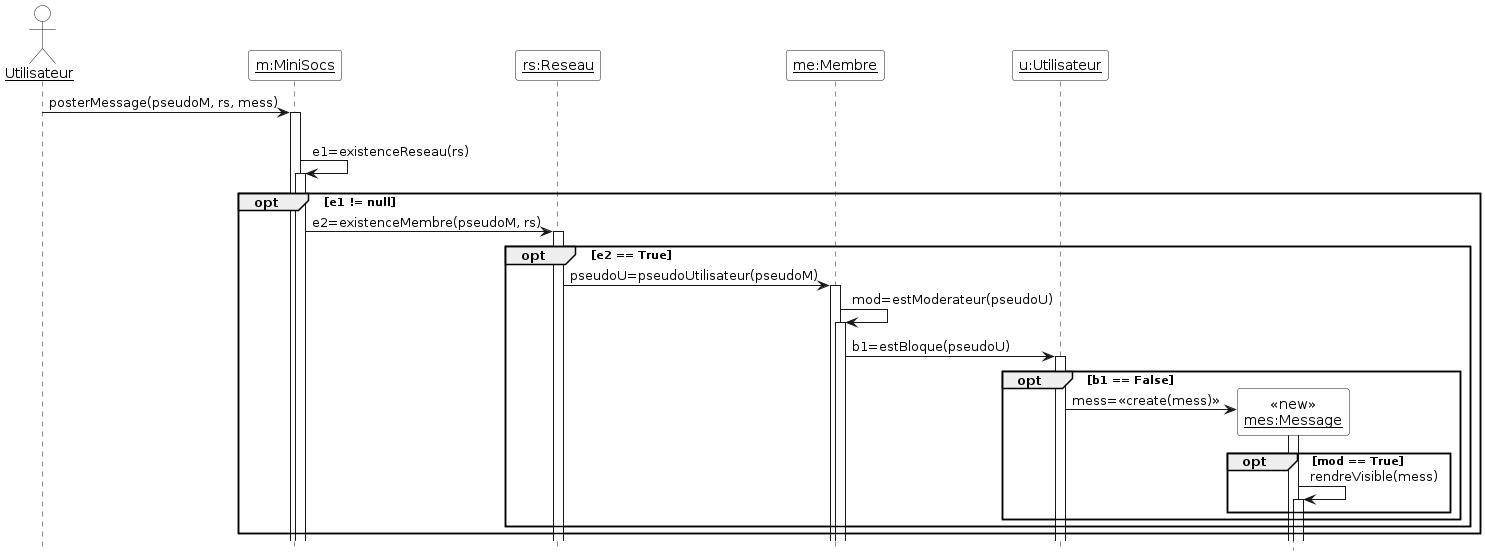
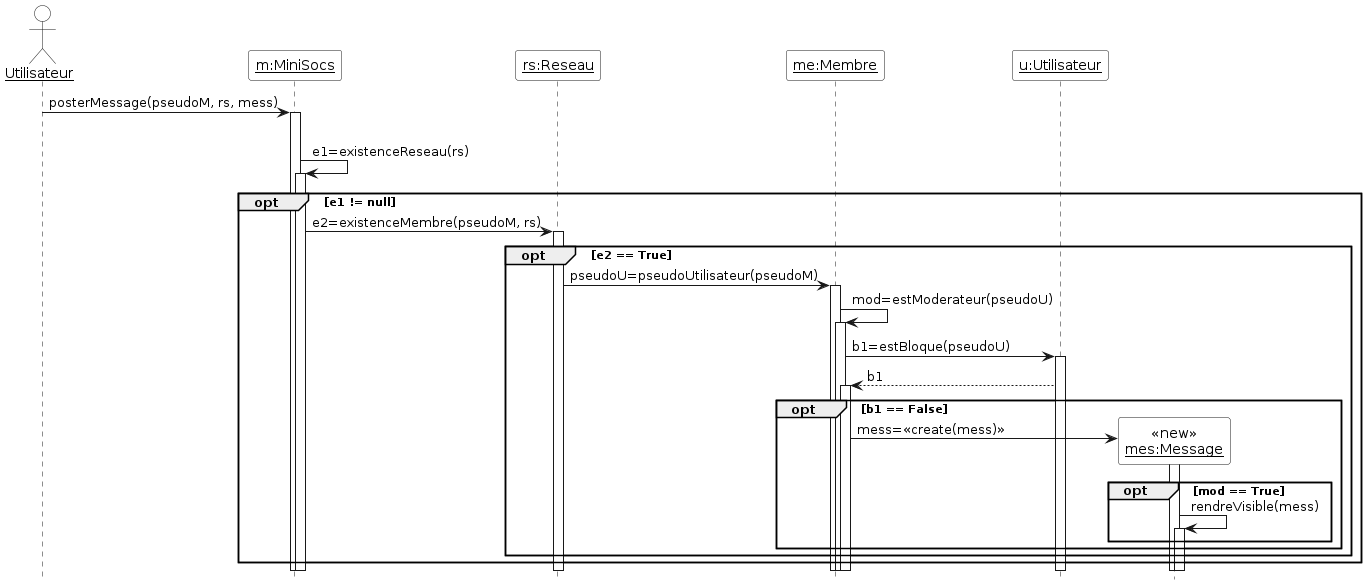
readme diag

diff --git a/src/test/java/eu/telecomsudparis/csc4102/minisocs/validation/TestPosterMessage.java b/src/test/java/eu/telecomsudparis/csc4102/minisocs/validation/TestPosterMessage.java
@@ -1,0 +1,71 @@
+package eu.telecomsudparis.csc4102.minisocs.validation;
+
+import org.junit.jupiter.api.AfterEach;
+import org.junit.jupiter.api.Assertions;
+import org.junit.jupiter.api.BeforeEach;
+import org.junit.jupiter.api.Test;
+
+import eu.telecomsudparis.csc4102.minisocs.Reseau;
+import eu.telecomsudparis.csc4102.minisocs.MiniSocs;
+import eu.telecomsudparis.csc4102.minisocs.Membre;
+import eu.telecomsudparis.csc4102.minisocs.Utilisateur;
+import eu.telecomsudparis.csc4102.util.OperationImpossible;
+	
+class TestPosterMessage {
+    private Utilisateur utilisateurModo;
+    private Membre modo ; 
+    private Utilisateur utilisateurbloque ;
+    private Membre membrebloque ;
+    private Membre membre ;
+    private Utilisateur createur;
+    private MiniSocs miniSocs;
+    private String utilisateur;
+    private String message;
+    private Reseau reseau;
+
+    @BeforeEach
+    void setUp() {
+        createur = new Utilisateur("createur_pseudo", "nom_createur", "prenom_createur", "nom.prenom@gmail.com");
+        reseau = new Reseau("nomReseau", createur, "pseudo");
+        utilisateurbloque = new Utilisateur("utilisateurbloque", "nom", "prenom", "utilisateurbloque@test.com");
+        membrebloque = new Membre("pseudo", reseau, utilisateurbloque);
+        utilisateurbloque.bloquerCompte();
+        miniSocs = new MiniSocs("MiniSocs");
+        utilisateur = createur.getPseudonyme(); // Utilisation du pseudo de l'utilisateur créé
+        message = "Ceci est un message de test.";
+    }
+	    
+    @AfterEach
+    void tearDown() {
+        miniSocs = null;
+        utilisateur = null;
+        message = null;
+    }
+
+    @Test
+    void posterMessageUtilisateurNull() {
+        Assertions.assertThrows(OperationImpossible.class,
+                () -> membrebloque.posterMessage(null));
+    }
+    
+    // Test pour vérifier le cas où le message est posté avec succès par un membre non modo
+    @Test
+    void posterMessageSuccesNonModo() throws Exception {
+        miniSocs.ajouterUtilisateur(utilisateur, "nom", "prenom", "test@test.com");
+        membre = new Membre("membre", reseau, createur);
+        membre.posterMessage(message); 
+        // Vérification que le message est bien posté en vérifiant s'il est présent dans les messages de l'utilisateur
+        Assertions.assertTrue(reseau.listeMessage.contains(message));
+    }
+    
+    // Test pour vérifier que le message est bien dans listeMess direct si le membre est un modérateur 
+    @Test
+    void posterMessageSuccesModo() throws Exception {
+        miniSocs.ajouterUtilisateur(utilisateur, "nom", "prenom", "test@test.com");
+        modo = new Membre("modo", reseau, createur);
+        modo.donnerDroits();
+        modo.posterMessage(message); 
+        // Vérification que le message est bien posté en vérifiant s'il est présent dans les messages de l'utilisateur
+        Assertions.assertTrue(reseau.listeModo.contains(message));
+    }
+}

diff --git a/src/main/java/eu/telecomsudparis/csc4102/minisocs/Reseau.java b/src/main/java/eu/telecomsudparis/csc4102/minisocs/Reseau.java
@@ -2,17 +2,23 @@ package eu.telecomsudparis.csc4102.minisocs;
 
 import java.util.HashMap;
 import java.util.Map;
+import java.util.Queue;
 
 import eu.telecomsudparis.csc4102.util.OperationImpossible;
 
+/*jusqu'à la OK*/
 public class Reseau {
 		/** Doit on ajouter celui qui a créer le réseau -> on le met directe admin ...**/
 		/** c'est un utilisateur qui créer le réseau cf diagramme de classe **/
+	
 	private final Utilisateur createur;
 	private final String nomDuReseau;
 	private Map<String, Membre> membres;
-	
-	public Reseau(final String nomDuReseau, final Utilisateur createur,final String pseudoM) throws IllegalArgumentException {
+	public Queue<Message> listeModo;
+	public Queue<Message> listeMessage;
+
+	/*Reseau(nomRs, u, pseudoM)*/
+	public Reseau(final String nomDuReseau, final Utilisateur createur, String pseudoM ) throws IllegalArgumentException {
         // Vérification du nom du réseau
         if (nomDuReseau == null || nomDuReseau.isBlank()) {
             throw new IllegalArgumentException("Le nom du réseau doit être non null et non vide");
@@ -29,6 +35,8 @@ public class Reseau {
         this.nomDuReseau = nomDuReseau;
         this.createur = createur;
         this.membres = new HashMap<>(); /** clef/valeur**/
+        this.listeModo = listeModo ;
+        this.listeMessage = listeMessage ; 
         membres.put(createur.getPseudonyme(), new Membre(pseudoM, this, createur));
     }
 	
@@ -44,6 +52,16 @@ public class Reseau {
 		return "Reseau [nomDuReseau=" + nomDuReseau + ", createur=" + createur + "]";
 	}
 	
+	public Queue getQueue() {
+		return this.listeModo ;
+	}
 	
+	public Queue getMessage() {
+		return this.listeMessage ;
+	}
+	
+	
+	/* Définir une file d'attente correspondant au processus de modération 
+	 * et une sorte de liste correspondant à l'ensemble des messages validés */
 	
 }

diff --git a/src/main/java/eu/telecomsudparis/csc4102/minisocs/Membre.java b/src/main/java/eu/telecomsudparis/csc4102/minisocs/Membre.java
@@ -4,11 +4,15 @@ import java.util.Objects;
 
 import org.apache.commons.validator.routines.EmailValidator;
 
+import eu.telecomsudparis.csc4102.util.OperationImpossible;
+
 /**
  * Cette classe réalise le concept de membre appartenant à un réseau.
  *
  * @author Alex Aïdan
  */
+
+
 public class Membre {
 	private String pseudo ; 
 	private boolean moderateur ;
@@ -29,6 +33,10 @@ public class Membre {
         this.utilisateur = utilisateur ; 
         this.moderateur = false;  
         this.bloque = false ;
+	}
+	
+	public Utilisateur getUtilisateur() {
+		return this.utilisateur ;
 	}
 	
 	public String getPseudo() {
@@ -71,4 +79,23 @@ public class Membre {
              Membre other = (Membre) obj;
              return Objects.equals(pseudo, other.pseudo);
      }
+	 /* l obj membre est attaché à un rs donc pas besoin de vérifier qu"il appartient bien à un rs  */
+	 public void posterMessage(String message) throws OperationImpossible {
+			if (message == null || message == "") {
+				throw new OperationImpossible("contenu non valide");
+			}
+			if (this.getUtilisateur().getEtatCompte() == EtatCompte.ACTIF) {
+				throw new OperationImpossible("utilisateur non autorisé");
+			}
+			
+			if (this.estModerateur() == true ) {
+				Message nouveauMessageVerifiee = new Message(message, this); /*poster message -> enregistrement + visible */
+				this.getReseau().listeMessage.add(nouveauMessageVerifiee);
+				
+			}
+			else {
+				Message nouveauMessageNonVerifiee = new Message(message, this);
+				this.getReseau().listeModo.add(nouveauMessageNonVerifiee) ; /*message soumis au processus de modération -> Queue*/
+			}		 
+	}	 
 }

diff --git a/src/main/java/eu/telecomsudparis/csc4102/minisocs/MiniSocs.java b/src/main/java/eu/telecomsudparis/csc4102/minisocs/MiniSocs.java
@@ -105,7 +105,8 @@ public class MiniSocs {
 		if (pseudo == null || pseudo.isBlank()) {
 			throw new OperationImpossible("pseudo ne peut pas être null ou vide");
 		}
-		Utilisateur u = utilisateurs.get(pseudo);
+		Utilisateur u = utilisateurs.get(pseudo); /*obtenir un objet utilisateur en partant d'un pseudo grace a la map utilisateurs
+		-> pseudoU est unique !*/
 		if (u == null) {
 			throw new OperationImpossible("utilisateur inexistant avec ce pseudo (" + pseudo + ")");
 		}
@@ -130,7 +131,9 @@ public class MiniSocs {
 		return "MiniSocs [nomDuSysteme=" + nomDuSysteme + ", utilisateurs=" + utilisateurs + "]";
 	}
 	
-	public void creerReseau(final String nomRs, final String pseudoM, final String pseudoU)
+	public void creerReseau(final String nomRs, final String pseudoM, final String pseudoU) /*celui qui créer un réseau est 
+	automatiquement mis modérateur ! Donc dès que l'on créer un réseau on demande un pseudo*/
+	
 			throws OperationImpossible {
 		if (pseudoM == null || pseudoM.isBlank()) {
 			throw new OperationImpossible("pseudoM ne peut pas être null ou vide");

diff --git a/src/main/java/eu/telecomsudparis/csc4102/minisocs/Message.java b/src/main/java/eu/telecomsudparis/csc4102/minisocs/Message.java
@@ -9,7 +9,6 @@ package eu.telecomsudparis.csc4102.minisocs;
 public class Message {
   
     private final String contenu;
-
     private Membre auteur; 
     /** c est un membre qui publie un message, non un utilisateur, meme si un membre est un utilisateur**/
 

diff --git a/readme.md b/readme.md
@@ -284,15 +284,16 @@ Version simplifiée
 
 ![diagrammeséquenceajouterutilisateursimplifié](./Diagrammes/minisocs_uml_diag_seq_ajouter_utilisateur_version_simplifiee.svg)
 
-###Créer un nouveau réseau
-([source](./Diagrammes/minisocs_uml_creer_reseau.pu)).
+#### Créer un nouveau réseau
+([source](./Diagrammes/minisocs_uml_diag_creer_reseau.pu)).
 
-![diagrammeséquenceajouterutilisateursimplifié](./Diagrammes/minisocs_uml_creer_reseau.svg)
+![diagrammeséquenceajouterutilisateursimplifié](./Diagrammes/minisocs_uml_diag_creer_reseau.svg)
 
-###Poster un message
-([source](./Diagrammes/minisocs_uml_poster_mess.pu)).
+#### Poster un message
+([source](./Diagrammes/minisocs_uml_diag_poster_mess.pu)).
 
-![diagrammeséquenceajouterutilisateursimplifié](./Diagrammes/minisocs_uml_poster_mess².svg)
+![diagrammeséquenceajouterutilisateursimplifié](./Diagrammes/minisocs_uml_diag_poster_mess.svg
+)
 
 # 7. Diagrammes de machine à états et invariants
 
